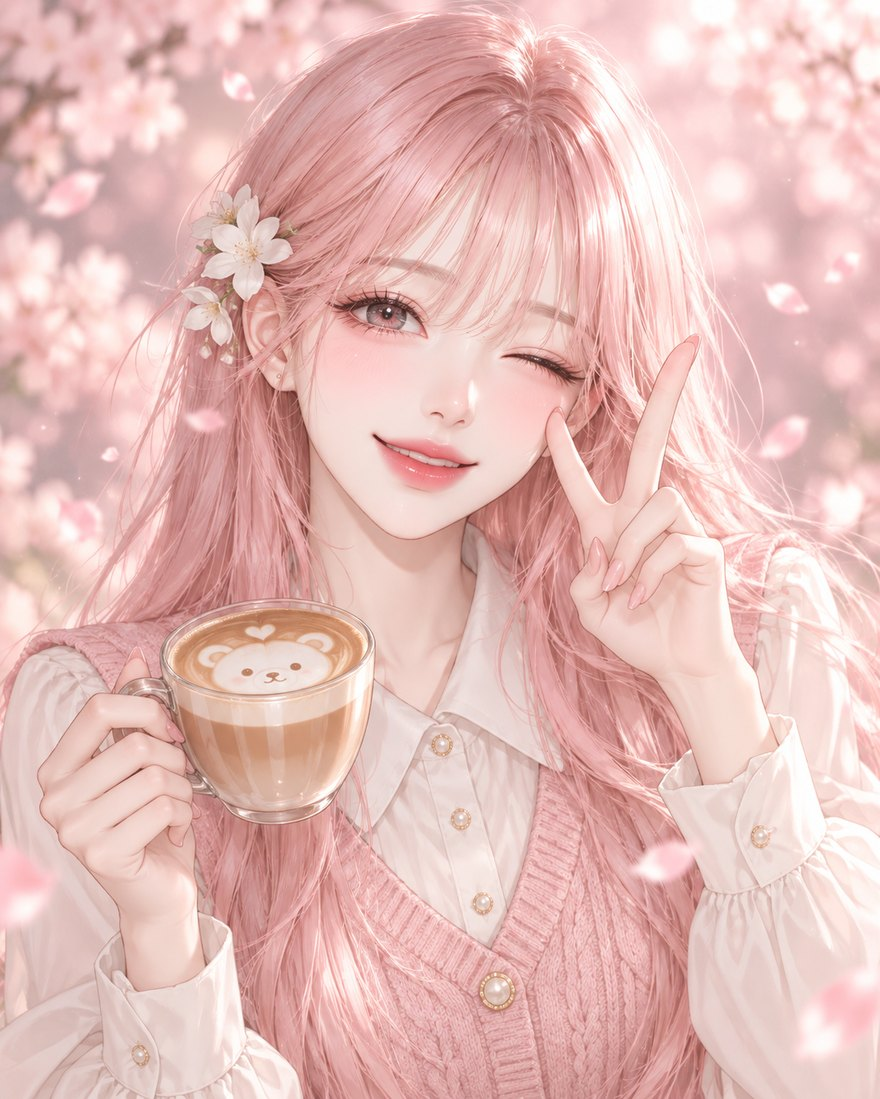
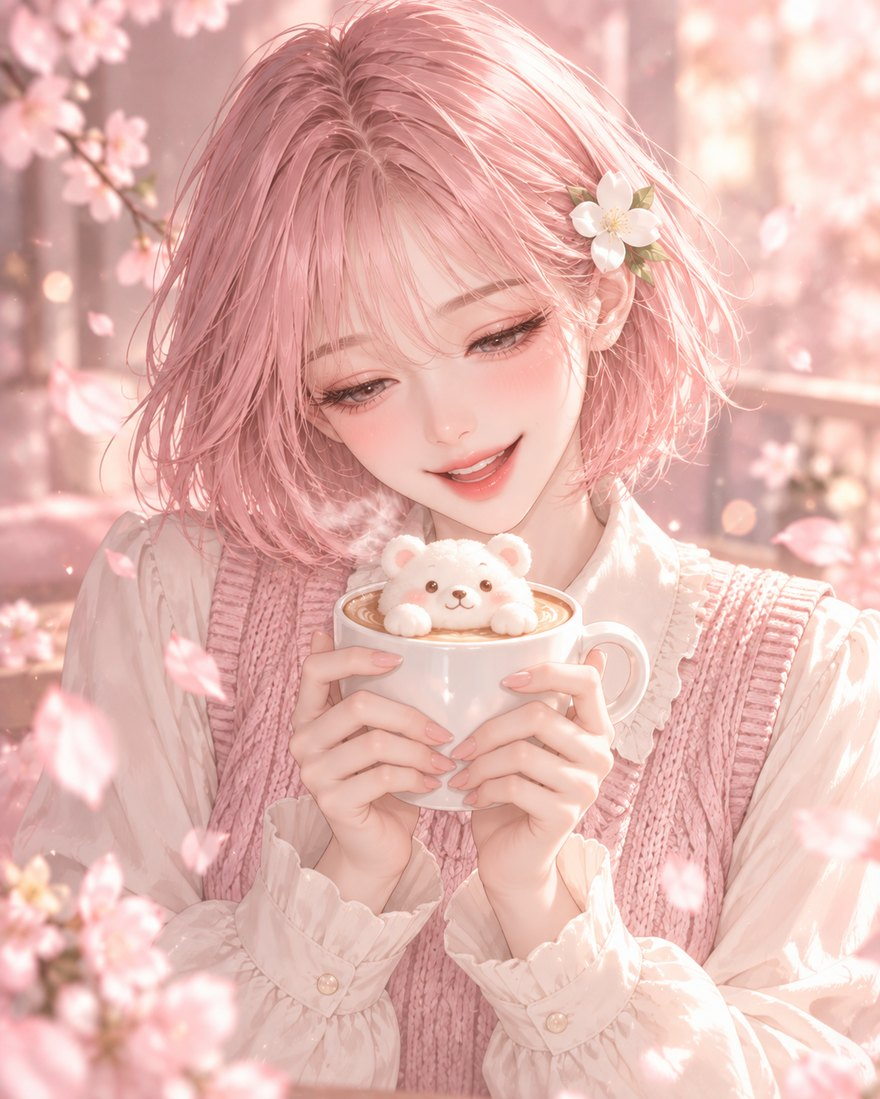
主頁：短髮花花新圖、加入熱氣花瓣愛心與傾斜動態效果

diff --git a/index.html b/index.html
@@ -306,6 +306,28 @@ footer{border-color:rgba(74,32,51,.12)}
 .rb .r3 b{position:absolute;right:-1.1em;top:-.55em;font-size:.6em;color:#ff8fb1;animation:spin 8s linear infinite;display:inline-block}
 @media(max-width:900px){.hero h1.rb{align-items:center}.rb .r2{padding-left:0}.rb .r2::before{content:"";width:60px;height:2px;border-radius:2px;background:linear-gradient(270deg,#ff7aa2,rgba(255,122,162,0))}.rb .r2::after{width:60px}}
 </style>
+<style>
+/* hero art motion */
+.hero-portrait{perspective:900px;transform-style:preserve-3d;transition:transform .25s ease-out;will-change:transform}
+.fx-wrap{position:absolute;inset:0;border-radius:inherit;overflow:hidden;isolation:isolate}
+.fx-wrap .hero-art{position:absolute;inset:0;width:100%;height:100%;object-fit:cover;object-position:50% 20%;animation:kb 14s ease-in-out infinite alternate;transform-origin:50% 55%}
+@keyframes kb{from{transform:scale(1)}to{transform:scale(1.06) translateY(-1%)}}
+.steam{position:absolute;left:43%;top:47%;width:16%;height:8%;z-index:2}
+.steam i{position:absolute;bottom:0;width:22%;height:100%;border-radius:50%;background:radial-gradient(ellipse at 50% 60%,rgba(255,255,255,.75),rgba(255,255,255,0) 65%);filter:blur(4px);opacity:0;animation:steam 3.6s ease-in infinite}
+.steam i:nth-child(1){left:10%}.steam i:nth-child(2){left:40%;animation-delay:1.2s}.steam i:nth-child(3){left:70%;animation-delay:2.4s}
+@keyframes steam{0%{transform:translateY(20%) scaleX(.8);opacity:0}25%{opacity:.55}100%{transform:translateY(-70%) translateX(10%) scaleX(1.4);opacity:0}}
+.hearts{position:absolute;left:64%;top:52%;z-index:2}
+.hearts b{position:absolute;color:#ff7aa2;font-size:18px;opacity:0;text-shadow:0 2px 6px rgba(240,98,146,.4);animation:heart 4.5s ease-out infinite}
+.hearts b:nth-child(2){left:22px;font-size:13px;animation-delay:1.5s}.hearts b:nth-child(3){left:-20px;font-size:15px;animation-delay:3s}
+@keyframes heart{0%{transform:translateY(0) scale(.4);opacity:0}15%{opacity:1;transform:translateY(-12px) scale(1)}100%{transform:translateY(-70px) translateX(30px) scale(.8);opacity:0}}
+.petals i{position:absolute;top:-8%;width:14px;height:11px;background:linear-gradient(135deg,#ffd6e2,#ff9fbd);border-radius:12px 1px 12px 1px;opacity:.9;z-index:3;animation:petal 9s linear infinite}
+.petals i:nth-child(1){left:8%;animation-delay:0s}.petals i:nth-child(2){left:28%;animation-delay:2.2s;animation-duration:11s}.petals i:nth-child(3){left:52%;animation-delay:4.1s}
+.petals i:nth-child(4){left:72%;animation-delay:1.1s;animation-duration:10s}.petals i:nth-child(5){left:88%;animation-delay:5.5s}.petals i:nth-child(6){left:40%;animation-delay:7s;animation-duration:12s}.petals i:nth-child(7){left:64%;animation-delay:8.3s}
+@keyframes petal{0%{transform:translateY(0) translateX(0) rotate(0);opacity:0}8%{opacity:.95}100%{transform:translateY(560px) translateX(-50px) rotate(400deg);opacity:0}}
+.shine{position:absolute;inset:0;z-index:4;background:linear-gradient(115deg,transparent 35%,rgba(255,255,255,.45) 50%,transparent 65%);transform:translateX(-120%);animation:shine 7s ease-in-out infinite;mix-blend-mode:soft-light}
+@keyframes shine{0%,70%{transform:translateX(-120%)}100%{transform:translateX(120%)}}
+@media(prefers-reduced-motion:reduce){.fx-wrap *{animation:none!important}.steam,.hearts,.petals,.shine{display:none}}
+</style>
 </head>
 <body>
 
@@ -346,7 +368,13 @@ footer{border-color:rgba(74,32,51,.12)}
       </div>
     </div>
     <div class="portrait hero-portrait">
-      <img class="hero-art" src="hanahana.jpg" alt="韓漫風花花：捧著小熊拉花拿鐵的粉髮女孩" width="880" height="1099">
+      <div class="fx-wrap">
+        <img class="hero-art" src="hanahana.jpg?v=3" alt="韓漫風花花：雙手捧著立體奶泡小熊咖啡的粉色短髮女孩" width="880" height="1099">
+        <div class="steam" aria-hidden="true"><i></i><i></i><i></i></div>
+        <div class="hearts" aria-hidden="true"><b>♥</b><b>♥</b><b>♥</b></div>
+        <div class="petals" aria-hidden="true"><i></i><i></i><i></i><i></i><i></i><i></i><i></i></div>
+        <div class="shine" aria-hidden="true"></div>
+      </div>
       <svg class="hero-mini" viewBox="0 0 100 100" aria-hidden="true"><use href="#jasmine"/></svg>
       <div class="sticker s1">☕ 咖啡續命中</div>
       <div class="sticker s2">✨ 今日也在發光</div>
@@ -414,6 +442,11 @@ document.querySelectorAll('.filters button').forEach(b=>b.onclick=()=>{
   const f=b.dataset.f;
   document.querySelectorAll('.work').forEach(w=>w.classList.toggle('hide',f!=='all'&&w.dataset.c!==f));
 });
+</script>
+<script>
+(function(){var p=document.querySelector('.hero-portrait');if(!p||matchMedia('(hover:none)').matches||matchMedia('(prefers-reduced-motion:reduce)').matches)return;
+p.addEventListener('mousemove',function(e){var r=p.getBoundingClientRect(),x=(e.clientX-r.left)/r.width-.5,y=(e.clientY-r.top)/r.height-.5;p.style.transform='rotateY('+(x*10)+'deg) rotateX('+(-y*10)+'deg) translateZ(0)'});
+p.addEventListener('mouseleave',function(){p.style.transform=''});})();
 </script>
 </body>
 </html>
